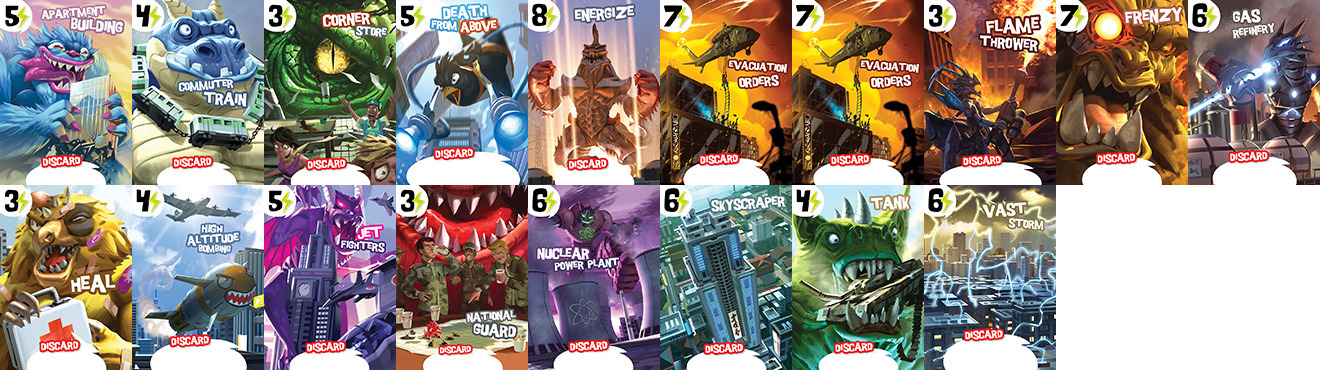
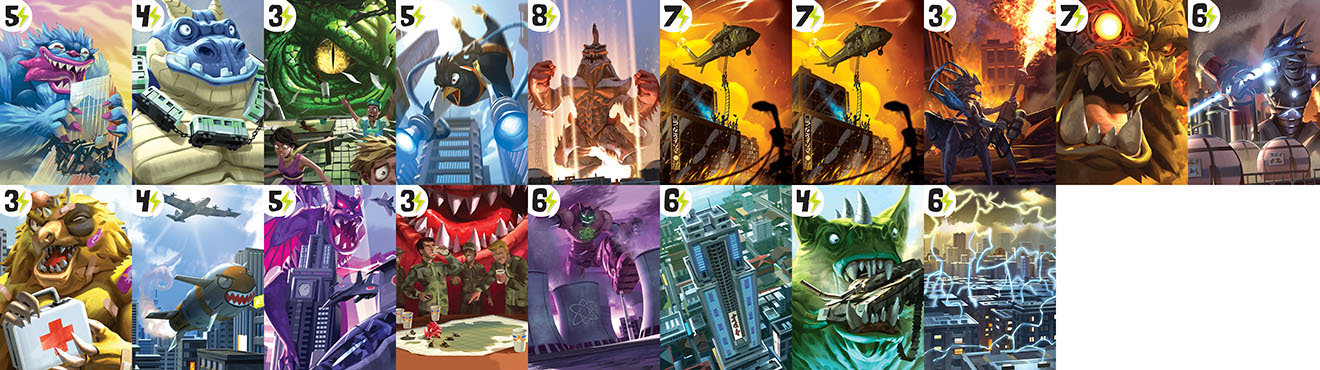
new cards

diff --git a/kingoftokyo.js b/kingoftokyo.js
@@ -38,7 +38,7 @@ var Cards = /** @class */ (function () {
     }
     Cards.prototype.setupCards = function (stocks) {
         stocks.forEach(function (stock) {
-            var keepcardsurl = g_gamethemeurl + "img/cards0.jpg";
+            var keepcardsurl = g_gamethemeurl + "img/keep-cards.jpg";
             for (var id = 1; id <= 57; id++) { // keep
                 stock.addItemType(id, id, keepcardsurl, id);
             }

diff --git a/kingoftokyo.css b/kingoftokyo.css
@@ -401,7 +401,7 @@
   color: white;
   transform: rotate(10deg);
   font-family: "goodgirl";
-  width: 980px;
+  width: 98px;
   text-align: center;
 }
 .stockitem .name-wrapper .outline {
@@ -419,9 +419,9 @@
 }
 .stockitem .type-wrapper {
   position: absolute;
-  top: 140px;
+  top: 142px;
   left: 0px;
-  font-size: 10pt;
+  font-size: 9pt;
   color: white;
   transform: rotate(-10deg);
   font-family: "goodgirl";

diff --git a/src/cards.ts b/src/cards.ts
@@ -7,7 +7,7 @@ class Cards {
     public setupCards(stocks: Stock[]) {
 
         stocks.forEach(stock => {
-            const keepcardsurl = `${g_gamethemeurl}img/cards0.jpg`;
+            const keepcardsurl = `${g_gamethemeurl}img/keep-cards.jpg`;
             for(let id=1; id<=57; id++) {  // keep
                 stock.addItemType(id, id, keepcardsurl, id);
             }

diff --git a/src/_cards.scss b/src/_cards.scss
@@ -1,11 +1,11 @@
 $name-left: 34px;
 $name-top: 14px;
-$name-width: 980px;
+$name-width: 98px;
 $name-size: 10pt;
 
 $type-left: 0px;
-$type-top: 140px;
-$type-size: 10pt;
+$type-top: 142px;
+$type-size: 9pt;
 
 $description-left: 4px;
 $description-top: 144px;
